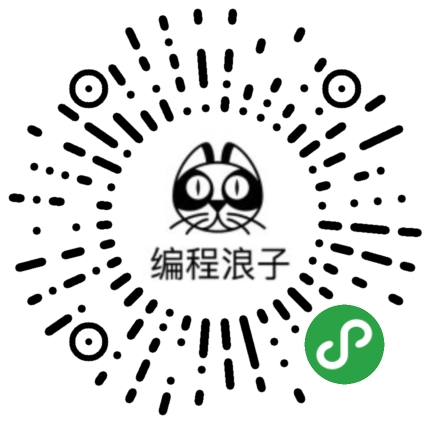
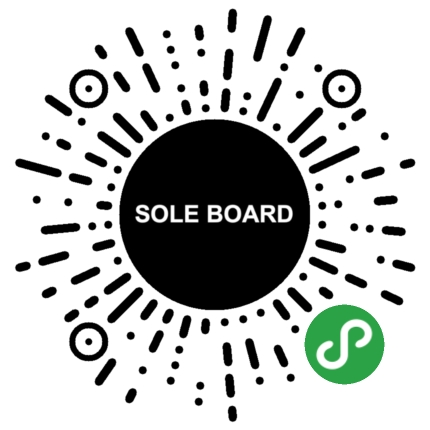
[platform] -update image

diff --git a/web/templates/user/login.html b/web/templates/user/login.html
@@ -13,9 +13,9 @@
                     </div>
                     <div class="col-xs-6 col-md-6">
                         <a href="javascript:void(0);" class="thumbnail">
-                            <img src="{{ buildStaticUrl('/images/common/test.png') }}" width="200px">
+                            <img src="{{ buildStaticUrl('/images/common/mini_qrcode.jpg') }}" width="200px">
                         </a>
-                        <p>test</p>
+                        <p>微信小程序</p>
                     </div>
                 </div>
 
